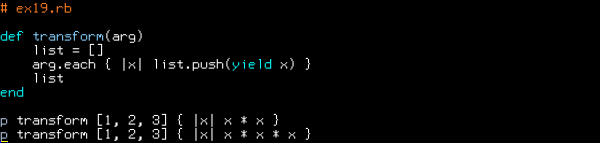
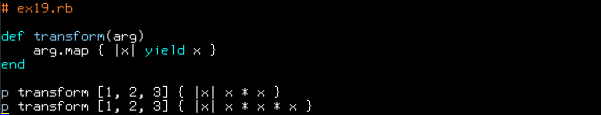
Better closure examples

diff --git a/slides.tex b/slides.tex
@@ -508,7 +508,7 @@
 \begin{frame}
   \frametitle{Closures}
 
-  the same thing implemented as a metaprogrammed new method on the
+  The same thing implemented as a metaprogrammed new method on the
   Array class:
 
   \includegraphics[scale=0.53]{src_22}

diff --git a/src/ex19.rb b/src/ex19.rb
@@ -1,9 +1,7 @@
 # ex19.rb
 
 def transform(arg)
-    list = []
-    arg.each { |x| list.push(yield x) }
-    list
+    arg.map { |x| yield x }
 end
 
 p transform [1, 2, 3] { |x| x * x }

diff --git a/src/ex22.rb b/src/ex22.rb
@@ -2,9 +2,7 @@
 
 class Array
     def transform
-        list = []
-        self.each { |x| list.push(yield x) }
-        list
+        self.map { |x| yield x }
     end
 end
 
